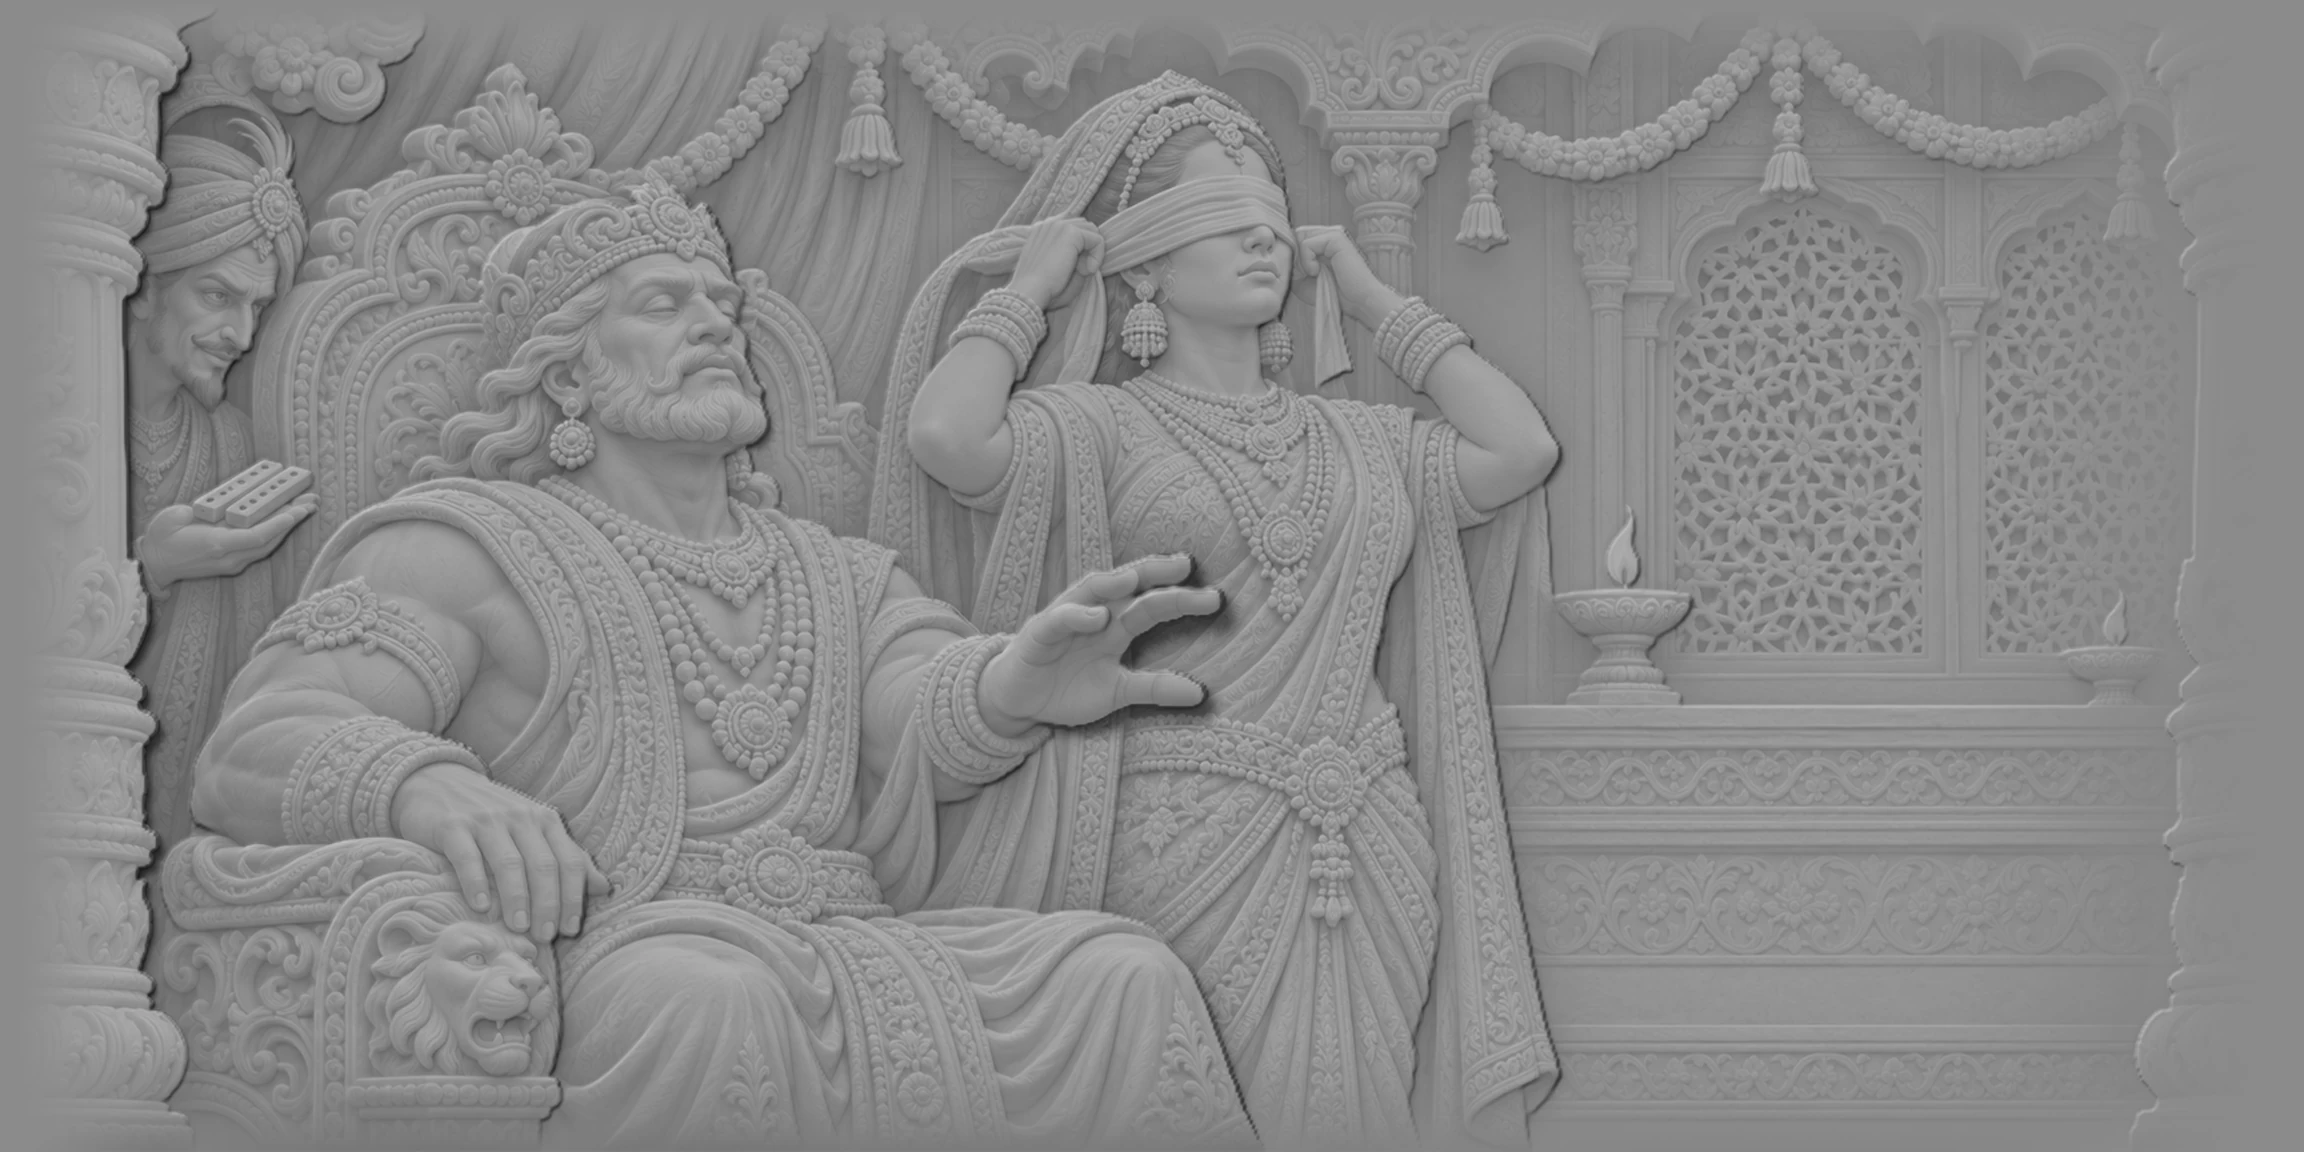
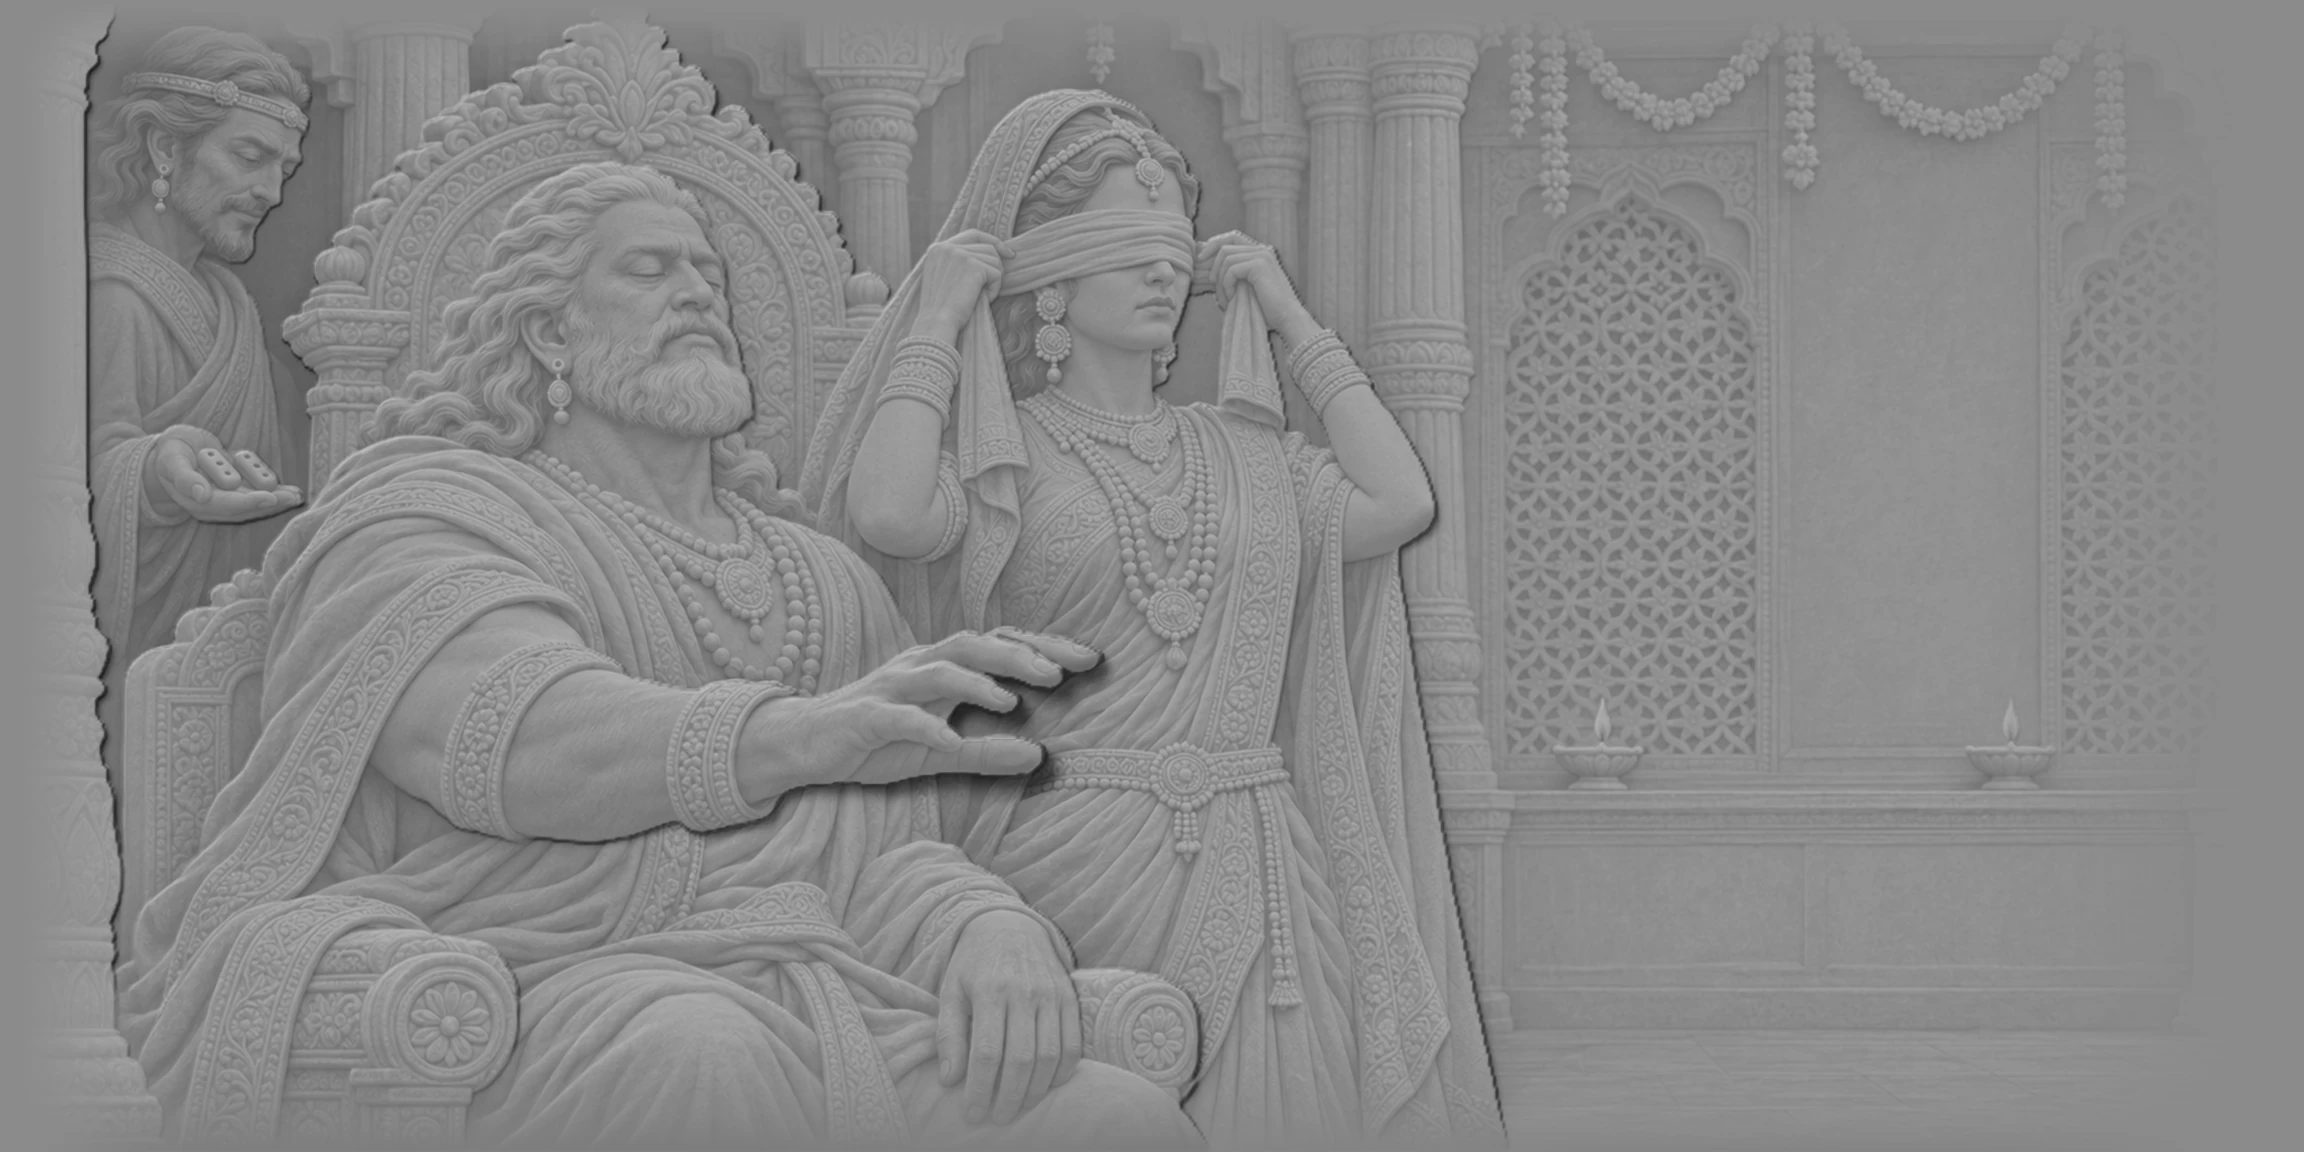
Redo Shakuni as a dignified prince of Gandhara in all three panels
Replace the grinning caricature and the Mughal-era turban and plume in the
dice game, the blind crown and the second throw with one consistent,
authentic figure: slim headband, trimmed beard, a controlled half-smile.

diff --git a/docs/ASSET_REGISTER.md b/docs/ASSET_REGISTER.md
@@ -195,3 +195,7 @@ Header painting: `docs/references/sabha-header-chatgpt.png` (1536×1024, colour,
 ### G13 — Ekalavya panel regenerated (14 November 2026)
 
 The user rejected the first `ekalavya` render: a feather headband (Native American, culturally wrong), a dog holding a bundle of arrows like a toy, an empty open hand on a leaf, and a monk-like robe on Droṇa. It was regenerated as the real moment: a dark-skinned Niṣāda prince in bark and deerskin with his hair knotted and his bow laid at the clay statue, kneeling to touch Droṇa's feet with his fist at his heart. Droṇa wears the sacred thread, dhoti and upper cloth with his bow on his shoulder; Arjuna watches; the dog lies quietly. File: `docs/references/ekalavya-chatgpt.png`. Audit of all 28 panels found no other foreign-costume or staged-prop errors.
+
+### G14 — Śakuni redone (14 November 2026)
+
+At the user's request, Śakuni's cartoon-villain look (wide grin; Mughal-era turban and plume, anachronistic) was replaced in all three panels where he appears: `dice`, `blindcrown` (Part I) and `secondthrow`. He is now one consistent figure: a lean, elegant prince of Gāndhāra with a slim royal headband, trimmed beard, hooded eyes and only a controlled half-smile.
